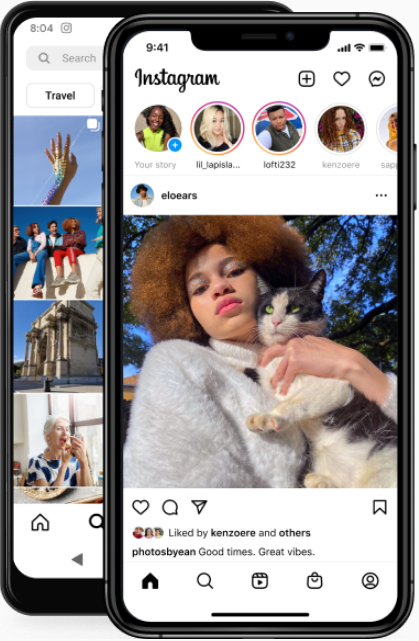
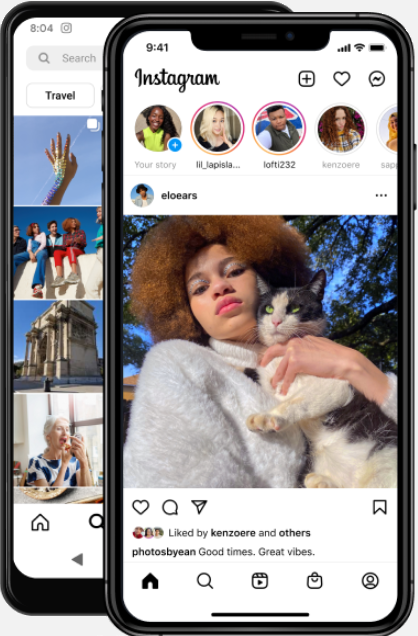
colocando as DIV's

diff --git a/index.html b/index.html
@@ -9,8 +9,23 @@
 </head>
 <body>
     <div>
-        <img src="./img/celulares.png" alt="celulares" class="celulares">
-    </div>/
+        <img src="./img/celulares2.png" alt="celulares" class="celulares">
+    </div>
+
+    <div id="main-content">
+        <div class="access">
+            <img src="img/instagram-logo.png" alt="">
+        </div>
+        <div class="registration">
+            <h1>não sei o que esta havendo</h1>
+        </div>
+        <div class="apps-download">
+            <h1>tambem não sei o que esta havendo</h1>
+        </div>
+        <div class="links">
+            <h1>não sei de nada</h1>
+        </div>
+    </div>
     
 </body>
 </html>

diff --git a/style.css b/style.css
@@ -1,12 +1,30 @@
 *{
-    background-color: #FAFAFA;
     margin: auto;
+}
+
+body{
+  background-color: #fafafa;
 }
 
 .celulares{
   display: block;
   margin-left: 255px;
-  margin-right: auto;
   margin-top: 35px;
-  width: 419px;
+  float: left;
+  width: 420px;
+}
+
+#main-content{
+  background-color: #FFFFFF;
+  margin-right: 220px;
+  margin-top: 35px;
+  border: 1px solid #D8D8D8;
+  float: right;
+  width: 400px;
+}
+
+.access{
+  text-align: center;
+  width: 300px;
+  margin-top: 60px;
 }
